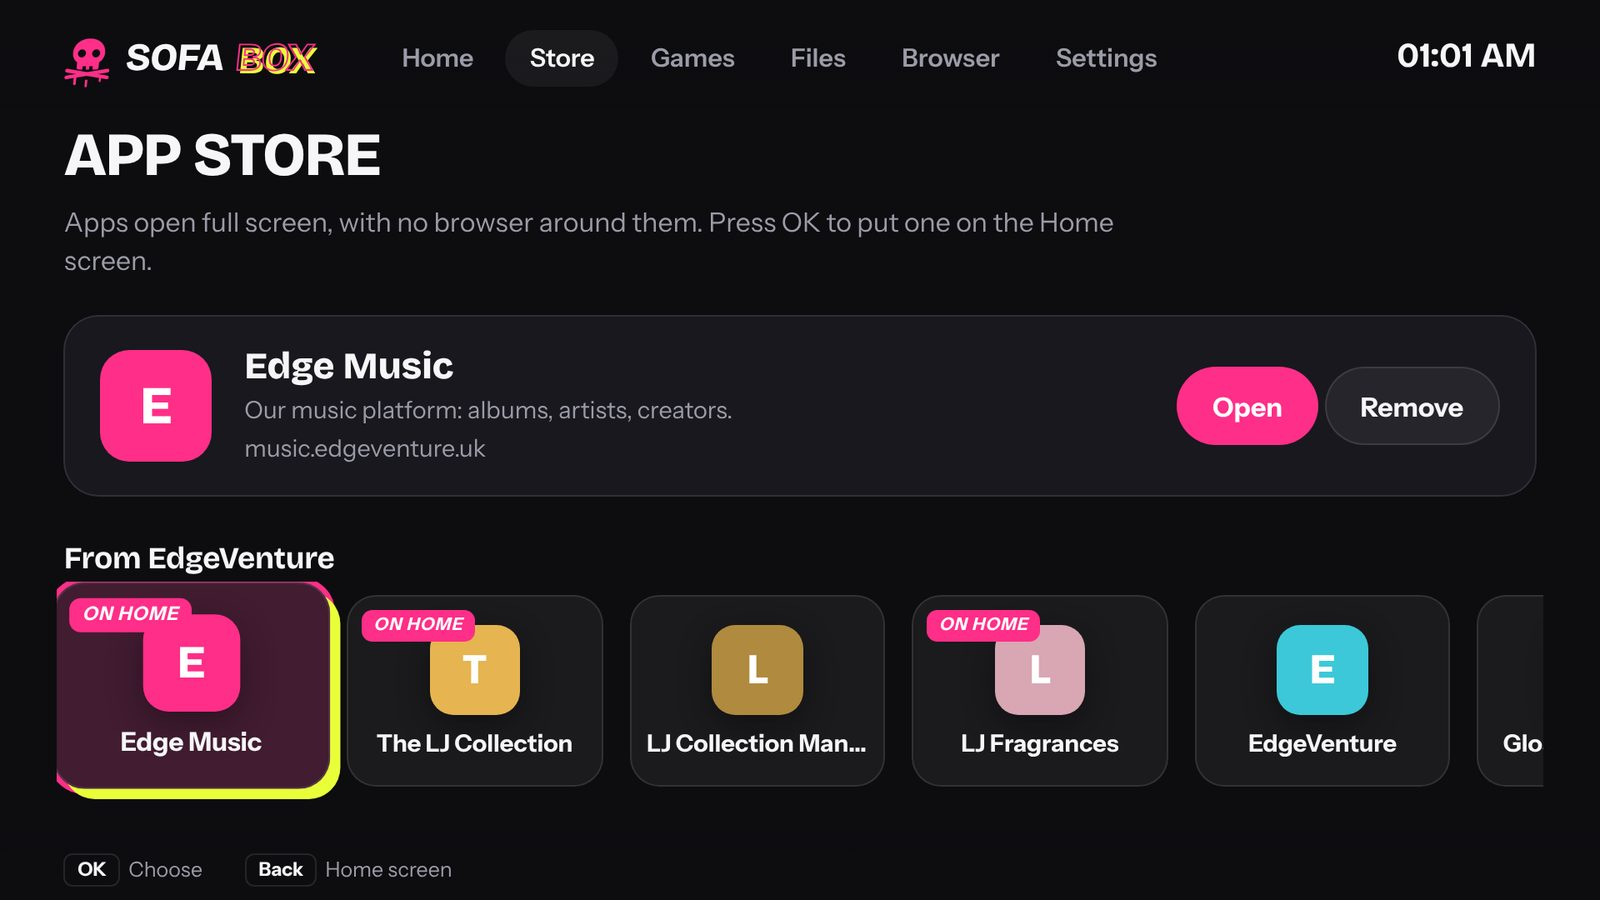
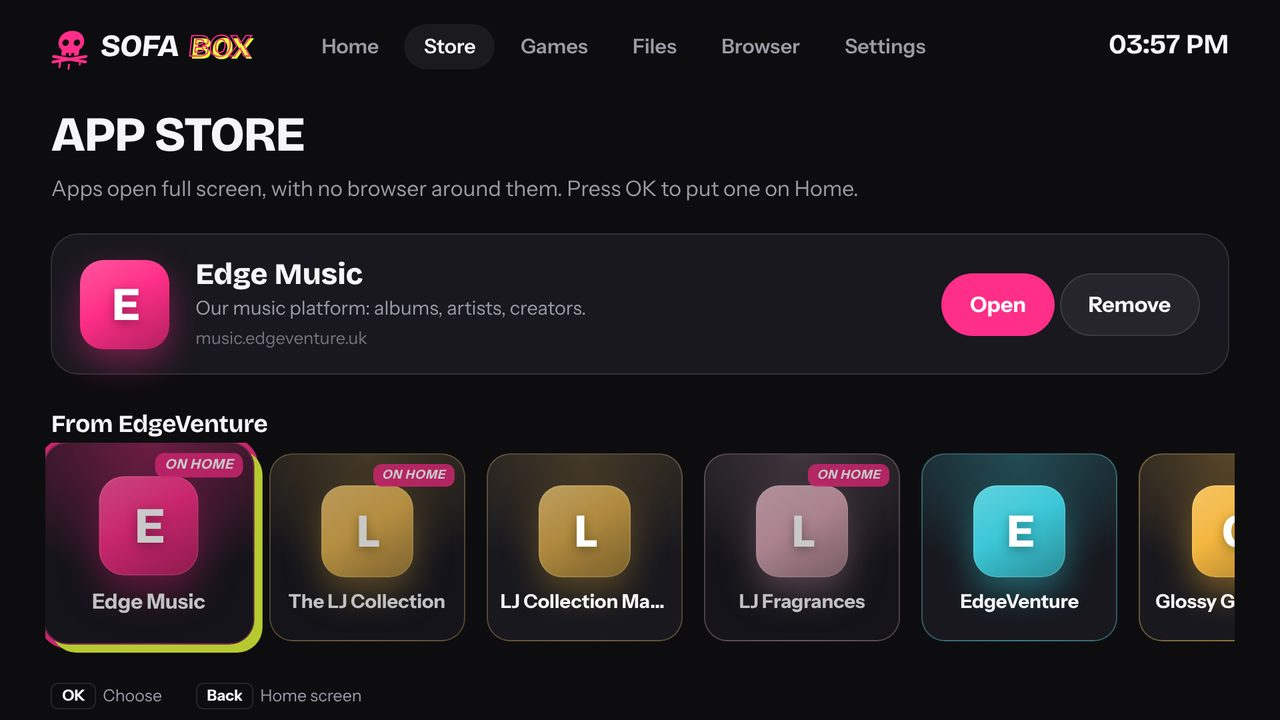
Docs: public libraries, servers, Restart; the box guide (where Sofa plays from, This box, USB and discs, install from GitHub); plan and handoff; new pictures

diff --git a/deploy/sofa-box/README.md b/deploy/sofa-box/README.md
@@ -1,16 +1,20 @@
 # The Sofa Box (a Raspberry Pi on the TV)
 
 Your own TV box, in place of a Fire TV: a Raspberry Pi on the TV that starts on its own home screen,
-with Sofa, your apps, a browser, an app store, games and a file manager. No ads, no account, and
-nothing watching what you watch; the TV itself never needs to be online.
+with Sofa, free Live TV, your streaming apps, a browser, an app store, games and a file manager. No
+ads, no account, and nothing watching what you watch; the TV itself never needs to be online.
 
-<img src="../../docs/images/box-home.jpg" alt="The Sofa Box home screen: Sign in to Sofa, and a row of apps: Sofa, Browser, App Store, Games, Files" width="100%">
+<img src="../../docs/images/box-home.jpg" alt="The Sofa Box home screen: Open Sofa and Live TV, your apps, and a Watch row with Sofa, Live TV, Netflix and YouTube" width="100%">
 
-- **Sofa** plays with the box's own player (mpv, on the Pi's video chip), so most files play as they
-  are and Sofa only converts what the Pi can't play. Home shows what you were watching.
-- **Apps:** our own (Edge Music, The LJ Collection, LJ Fragrances) and anything from the **App
-  Store** (YouTube, Pandora, SomaFM, Twitch, Pluto TV…) open full screen, with no browser around
-  them. **Home** brings you back; they keep playing.
+- **Sofa from anywhere:** a Sofa computer at home, a Sofa on the internet (a share link someone sent
+  you), **Sofa on the box itself** (no other computer needed), or your Jellyfin, Emby or Plex server.
+  It plays with the box's own player (mpv, on the Pi's video chip), so most files play as they are.
+- **Free Live TV** has its own tile, and works with no server at all.
+- **Streaming apps** (Netflix, YouTube, Prime Video, Disney+, Max, Hulu…), our own (Edge Music,
+  The LJ Collection, LJ Fragrances) and anything else from the **App Store** open full screen, with
+  no browser around them. **Home** brings you back; they keep playing.
+- **USB drives and DVDs:** plug in a drive and its videos, music and pictures are in Files; put a
+  DVD or music CD in a USB disc drive and play it from Home.
 - **Browser**, with **Sofa Shield** keeping ads and trackers out of the whole box. On any site, the
   **Sofa bar** (Menu key, or the mouse at the top edge) has **Add to Home**: the site becomes an app.
 - **Games** that run well on the box, **Files** for downloads and USB drives, and **themes**: Street,
@@ -35,30 +39,42 @@ nothing watching what you watch; the TV itself never needs to be online.
 
 ## Setting it up: the ready-made card (easiest)
 
-1. Download the newest **`sofa-box-….img.xz`** from the
-   [releases page](https://github.com/krintoxi/sofa/releases) (the one called "Sofa box").
+1. Download **`sofa-box.img.xz`** from the
+   [Sofa Box release](https://github.com/krintoxi/sofa/releases/tag/sofa-box) (it's always the newest
+   card: GitHub makes it every time the box changes).
 2. Install **Raspberry Pi Imager** (raspberrypi.com/software) on your computer and open it.
    Choose your Pi, then **Choose OS → Use custom** and pick the file, then your card.
 3. When it asks about **OS customisation**, you can press **Edit settings** to add your Wi-Fi, and
    a user name and password with SSH under Services (only needed to look inside the box later). Or
    press **No**: a network cable needs nothing.
 4. Write it, put the card in the Pi, plug in HDMI (and the network cable), then power.
-5. The TV shows the Sofa Box boot screen, then the first-start steps: the internet, finding Sofa,
-   and your look. The first start takes a few minutes.
-6. **Sign in to Sofa:** open Sofa from the home screen; it shows a code and a QR code. On your phone,
-   open Sofa, press your picture, then **Pair a TV**, and type the code (or scan the QR).
+5. The TV shows the Sofa Box boot screen, then four short first-start steps: hello, the internet,
+   your look, and **your apps** (tick the streaming apps you use: they go on Home). The first start
+   takes a few minutes.
 
-From then on the box starts on its home screen whenever it's switched on. If the Sofa computer is off,
-it waits for it. If there's more than one Sofa at home, it asks once.
+   <img src="../../docs/images/box-welcome.jpg" alt="First start: What do you watch? Netflix, YouTube, Prime Video, Disney+, Max, Hulu and more, to tick" width="80%">
+6. **Open Sofa** from Home. The first time it asks where from (see below); after that it opens
+   straight away, or asks each time if you prefer.
+7. **Sign in:** a Sofa computer shows a code and a QR code. On your phone, open Sofa, press your
+   picture, then **Pair a TV**, and type the code (or scan the QR). Sofa on the box signs itself in.
+
+From then on the box starts on its home screen whenever it's switched on.
 
 ## Setting it up on the card you already have
 
 The installer works on Raspberry Pi OS (Lite or with a desktop) and on other Debian or Ubuntu
-systems. From the Pi's own keyboard and screen, or over SSH (`ssh you@raspberrypi.local`), run one line with your Sofa
-computer's address (Sofa's **Server → Overview → Apps** shows it ready to copy):
+systems. From the Pi's own keyboard and screen, or over SSH (`ssh you@raspberrypi.local`), run:
 
 ```
-curl -fsSL http://192.168.1.20:8090/sofa-box/install.sh | sudo sh -s http://192.168.1.20:8090
+curl -fsSL https://raw.githubusercontent.com/krintoxi/sofa/main/deploy/sofa-box/install.sh | sudo sh
+```
+
+It gets everything from GitHub, so no Sofa computer is needed. To start with your Sofa computer
+already on the box's list, add its address at the end (Sofa's **Server → Overview → Apps** shows the
+whole line ready to copy):
+
+```
+curl -fsSL https://raw.githubusercontent.com/krintoxi/sofa/main/deploy/sofa-box/install.sh | sudo sh -s http://192.168.1.20:8090
 ```
 
 It takes about 10 minutes on a Pi 3, then Sofa appears on the TV. Restart once when it says so.
@@ -96,17 +112,57 @@ Everything starts here. **Home** comes back to it from anywhere: the remote's Ho
 remotes it's the Home or Menu button, sent over HDMI), a controller's Xbox/PS button, **F1** or the
 Windows key on a keyboard, or **Home** on the Sofa bar.
 
-- **Apps:** OK opens one. **Menu** on an app moves it, hides it or removes it.
+- **The spotlight** at the top: what you were watching in Sofa (Resume), or Open Sofa and Live TV
+  with your streaming apps.
+- **Watch:** Sofa, Live TV and your streaming apps, as big cards. **Plugged in:** USB drives and a disc,
+  when there's one. **Continue watching** from the Sofa it opens with.
+- **Your apps:** everything else. OK opens one. **Menu** on an app moves it, hides it or removes it.
 - **Open now:** what's still open (music keeps playing); OK goes back to it, ✕ closes it.
 - **Typing** anything on Home searches the web.
 
+### Opening Sofa: where from
+
+<img src="../../docs/images/box-chooser.jpg" alt="Where's your Sofa? Four cards: Sofa at home, Sofa on the internet, This box, Other servers" width="100%">
+
+The first time you open Sofa, the box asks **where's your Sofa?**
+
+- **Sofa at home:** the Sofa computers the box found on your network, or type an address.
+- **Sofa on the internet:** paste a **share link** someone sent you (their public library), or your
+  own Sofa's address when it's on the internet. Free public Sofas are listed here too when there are
+  any (the list comes from GitHub, so new ones show up by themselves).
+- **This box:** no server, and you don't want one? Sofa runs on the box itself. It has **free Live
+  TV** straight away, and plays videos on the box (in Videos → Sofa Library) and on USB drives laid
+  out as a Sofa Library. It signs itself in.
+- **Other servers:** Jellyfin, Emby or Plex. The box finds them on your network, or type the address.
+  They open as they are, with the Sofa bar.
+
+Then: **every time**, or **ask me each time**. Settings → Sofa changes that, and lists every server
+you've added (open one, make it the one Sofa opens with, or remove it). Inside Sofa, your name →
+**Servers** switches too. You stay signed in to each one.
+
+The **Live TV** tile opens Live TV in the Sofa it opens with, or in Sofa on the box.
+
+### USB drives and discs
+
+Plug in a USB drive and it's ready in a moment: a toast says so, it shows on Home under **Plugged
+in**, and Files lists it. Videos and music play in the box's player; pictures open full screen.
+
+A **DVD, Blu-ray or music CD** in a USB disc drive shows on Home too: OK plays it (DVD menus work with
+the arrows and OK). Store-bought DVDs and Blu-rays are usually copy-protected; the box doesn't come
+with the extra software some of them need, so those may not play. A Pi 3 may need a powered USB hub
+for a disc drive.
+
 ### The App Store
 
-<img src="../../docs/images/box-store.jpg" alt="The App Store: Edge Music, The LJ Collection, YouTube and more" width="70%">
+<img src="../../docs/images/box-store.jpg" alt="The App Store: Edge Music, The LJ Collection, and the streaming apps" width="70%">
 
-Pick an app and press OK: it's on Home, and it opens full screen with no browser around it.
-**Any website** at the bottom puts any address on Home. Apps marked **DRM** (Netflix, Disney+,
-Prime Video, Spotify) need protection the Pi 3 may not manage: they might not play.
+Pick an app and press OK: it's on Home, and it opens full screen with no browser around it. Sign in
+the first time, as on any TV. **Any website** at the bottom puts any address on Home. Each app shows
+its own icon (the box fetches it from the app's site the first time you open the store).
+
+Apps marked **DRM** (Netflix, Disney+, Prime Video, Max, Spotify…) use copy protection, which the box
+has (Widevine). On a Pi 3 their picture may be smaller than on a Fire TV, and a service can refuse
+to play in the box's browser; a Pi 4 or 5 does better.
 
 ### The browser and the Sofa bar
 

diff --git a/docs/sofa-anywhere.md b/docs/sofa-anywhere.md
@@ -78,20 +78,20 @@ The plan for the round that started 2026-11-02. Each part has a status: ☐ not 
      **Share** switch for admins.
    - The app for Visitors: only the library and Live TV, a "Shared by <name>" badge, a Sign-in button,
      and your place kept on that device only.
-4. ☐ **Servers in the app.**
+4. ☑ **Servers in the app.**
    - Menu → **Servers**: this one, plus the ones you've added (pasting an address or a share link).
      Picking one opens it. On the box, this list is the box's own, and switching keeps you signed in.
-5. ☐ **Box: opening Sofa.**
+5. ☑ **Box: opening Sofa.**
    - The chooser offers: Sofa at home (found + type an address), Sofa on the internet (paste a link,
      plus the free servers from `deploy/sofa-box/servers.json`), This box, and Other servers.
    - Then "Remember this, or ask every time?", with "You can change this in Settings → Sofa".
    - Settings → Sofa: the list, the default, remove, add.
    - Agent API: `/box/api/sofa`, `/box/api/sofa/add|remove|default|open|scan`.
-6. ☐ **Box: no server needed.**
+6. ☑ **Box: no server needed.**
    - "This box" (local Sofa, started on demand) and a **Live TV** tile.
    - USB drives are mounted by udisks2 (a udev rule), with a toast and an **USB** tile.
    - The **Disc** tile; `libdvdnav`/`libbluray`/`libcdio` support is in mpv already.
-7. ☐ **Box: store, icons, Home, first setup.**
+7. ☑ **Box: store, icons, Home, first setup.**
    - About 40 popular apps in the store.
    - Icons:
      - each app tile has its own color and a large, sharp icon (the site's biggest manifest or
@@ -105,18 +105,47 @@ The plan for the round that started 2026-11-02. Each part has a status: ☐ not 
 8. ☑ **Sound on by default** for hover previews, the banner and the top slider. They start with sound;
    if the browser won't allow it, they play muted with a sound button. The box's Chromium is started
    with `--autoplay-policy=no-user-gesture-required`.
-9. ☐ **GitHub:** install from raw.githubusercontent.com; the workflow publishes the card release.
+9. ☑ **GitHub:** install from raw.githubusercontent.com; the workflow publishes the card release.
    - Docs:
      - this plan;
      - the box guide (servers, no server, USB/DVD, install command);
      - the README (Sharing, Restart).
    - Tests for sharing, the box's servers and the mpv options.
 
-## Where it stands
+## How it looks
 
-- Done (2026-11-02):
-  - parts 1, 2, 3 and 8;
-  - `tests/test_server.py` `Sharing` covers visitors from home and from the internet;
-  - checked in a browser: the Sharing tab, the Share button, the visitor's Home on a computer and a
-    phone.
-- Next: parts 4–7, then 9.
+<img src="images/sharing.jpg" alt="Server → Sharing: the public library switched on, its QR code and share link" width="100%">
+
+<img src="images/visitor.jpg" alt="A visitor's Sofa: only the shared titles, Public and the library's name at the top, Sign in" width="100%">
+
+<img src="images/box-chooser.jpg" alt="The Sofa Box asks where's your Sofa: at home, on the internet, this box, or other servers" width="100%">
+
+## Where it stands (2026-11-02)
+
+- **Everything in the plan is built**, and the tests pass (68).
+  - `tests/test_server.py` `Sharing`: visitors at home and from the internet.
+  - `tests/test_sofa_box.py` `Agent`:
+    - each server at its own address;
+    - the box's controls refused to other pages and other names;
+    - a share link through the box;
+    - mpv that can't start handing the video back to the page.
+- **Checked in a browser:**
+  - Server → Sharing, the Share button, and a visitor's Home on a computer and a phone;
+  - the box's Home, the chooser, the store, Settings → Sofa and the first start's apps step;
+  - This box: it starts, makes its own account and signs in.
+- **Not yet tried on real hardware:**
+  - the Pi 3 B+;
+  - USB drives mounting through udisks;
+  - a USB DVD drive;
+  - Jellyfin/Emby/Plex discovery on a real network;
+  - store icons (the cloud session couldn't reach those sites; on the box it can).
+- **For the owner:**
+  - Put a free public Sofa in `deploy/sofa-box/servers.json` (name, url, about) when there is one;
+    every box picks it up from GitHub within a day.
+  - The first build on `main` publishes the release `sofa-box`.
+
+## Ideas for later
+
+- A way to send a link to the box from a phone (for people with only a TV remote).
+- A list of the open tabs inside the browser.
+- A public Sofa's visitors could keep their place across devices (today it stays on each device).

diff --git a/README.md b/README.md
@@ -129,6 +129,21 @@ own settings and history are in `~/Sofa/data`.
 Internet** walks you through it, and Sofa gets and renews the certificate itself.
 [docs/remote-access.md](docs/remote-access.md)
 
+**Can I share some of it with friends, or with everyone?** Yes: **Server → Sharing** makes a **public
+library**. Pick titles with **Share** on their page (or share everything except Adult), and send the
+**share link**. Whoever opens it sees a copy of Sofa with only those titles, can only watch, and
+never sees the rest. Signing in still works only at home (unless you've set up your own address with
+HTTPS). For a server that's only there to share, **Open to everyone** makes its plain address show
+the public library. [docs/sofa-anywhere.md](docs/sofa-anywhere.md)
+
+**I watch from more than one Sofa.** Press your name, then **Servers**: paste another Sofa's address
+or a share link, and switch between them. A Sofa Box keeps a list of its own and stays signed in to
+each one.
+
+**The Server page is stuck.** It doesn't wait on a slow answer any more (it keeps showing the last
+one and says so). If Sofa itself seems stuck, **Restart Sofa** at the top of the Server page starts
+it again in a few seconds.
+
 **Can family and friends make their own accounts?** Yes: **Server → People → Let people ask for an
 account**. The sign-in page gets **Create an account**; they pick a name and password, and you let
 each one in (or not) under **Server → People**. Home tells you when someone's waiting.
@@ -183,11 +198,11 @@ deleted. More: [docs/folder-structure.md](docs/folder-structure.md).
   each device as they play, and Sofa also **converts them to MP4 in the background** so they
   play instantly next time. The originals are kept until you say otherwise.
   [docs/playback.md](docs/playback.md)
-- **Hover previews.** Point at anything and a bigger card plays a few seconds of it, with Play
-  and More info. On a TV, the card you're on plays in place.
+- **Hover previews.** Point at anything and a bigger card plays a few seconds of it, with sound,
+  Play and More info. On a TV, the card you're on plays in place.
 - **Trailers.** Open a show or movie (More info) and, after a moment, three minutes of it from
-  somewhere in the middle play behind the title. Sound off until you turn it on; off per device
-  under Theme.
+  somewhere in the middle play behind the title, with sound (the speaker button turns it off, for
+  previews and the banner too). Off per device under Theme.
 - **A proper player.** Skip Intro / Skip Recap / Skip Credits, "Next episode" when the
   credits start, previews while you scrub, an episode list, sound-track and subtitle
   choice, **Night mode** (loud scenes quieter, voices clearer), picture quality for converted
@@ -305,13 +320,14 @@ link you trust and tick **Adult channels**. [docs/adult.md](docs/adult.md)
 
 | Tab | What's there |
 |---|---|
-| Overview | addresses to watch from, who's watching, the Inbox, anything that needs you, this computer (speed, Gentle mode, quiet hours) |
+| Overview | addresses to watch from, who's watching, the Inbox, anything that needs you, this computer (speed, Gentle mode, quiet hours), **Restart Sofa** |
 | Storage | where the library is (this computer and drives), where new things go, drives to add, moves between drives |
 | Library | folders, rescan, **missing details** (fix them in a click), **duplicates** (keep the best copy), new pictures, free up space, the Deleted folder, Skip Intro progress, Needs Review |
 | Converting | the convert-to-MP4 queue with progress; automatic converting on/off |
 | Downloads | save videos from links; install yt-dlp; use a browser's sign-in; the "Send to Sofa" bookmark |
 | Live TV | channel lists |
 | People | accounts, Adult access, Kids profiles, guests |
+| Sharing | the **public library**: on/off, the share link (copy, QR code, make a new one), what visitors see it called, share everything, Live TV too, open to everyone, the shared titles |
 | Settings | **privacy** (keep no logs, wipe all logs, work offline), name, theme, TV sharing, TMDB key, ThePornDB token, backups |
 | Updates | version, **Update now** |
 | Activity | everything Sofa did, filterable |

diff --git a/docs/HANDOFF.md b/docs/HANDOFF.md
@@ -1,7 +1,7 @@
 # Handoff
 
 For whoever picks this up next (a person, or a new Claude conversation). Read this first, then the
-plan you're continuing. Updated 2026-11-02.
+plan you're continuing. Updated 2026-11-02 (Sofa anywhere).
 
 ## Where things are
 
@@ -37,11 +37,18 @@ Comet Courier's address, a `box-v1` release (the owner publishes it on the websi
 
 ## What's in progress
 
-- **Sofa anywhere** (started 2026-11-02): public libraries with a share link, adding and switching
-  servers (Sofa, Jellyfin, Emby, Plex), a box that works with no server (Sofa on the box, Live TV,
-  USB, DVD), the box's store/icons/Home/first setup, Server page fixes and a Restart button, preview
-  sound, the card on GitHub Releases, and the phone → box mpv error. The plan and the status of each
-  part: [sofa-anywhere.md](sofa-anywhere.md).
+- **Sofa anywhere** (2026-11-02, built; waiting for the owner's OK to merge and for a try on the Pi):
+  - public libraries with a share link (`sofa/sharing.py`, Server → Sharing);
+  - adding and switching servers: Sofa, Jellyfin, Emby, Plex (`deploy/sofa-box/boxservers.py`, and the
+    app's Servers menu);
+  - a box that works with no server: Sofa on the box, Live TV, USB drives, DVD;
+  - the box's store, icons, Home and first setup;
+  - Server page fixes (`sofa/slow.py`) and a Restart button;
+  - sound on previews;
+  - the card on GitHub Releases (`sofa-box`), and the install command from GitHub;
+  - the phone → box mpv error (`--profile=fast` on Bookworm's mpv).
+
+  The plan, the status of each part and what's left: [sofa-anywhere.md](sofa-anywhere.md).
 
 - **Sofa Box OS** (home screen, apps, store, browser, ad blocking, files, games, themes):
   [sofa-box-os.md](sofa-box-os.md) has the plan, the status of each part and what's next ("Where it
@@ -60,7 +67,13 @@ Comet Courier's address, a `box-v1` release (the owner publishes it on the websi
 - A demo Sofa for screenshots: `SOFA_DATA=<folder> python3 sofa.py serve`; Playwright with the
   preinstalled Chromium drives the UI (scripts were kept in the session's scratchpad, not the repo).
 - The card: push to the branch (changes under `deploy/sofa-box/` or the builder) builds it on GitHub
-  and keeps it a week as an artifact; publishing a release tagged `box-v…` on the website attaches it.
+  and keeps it a week as an artifact. On `main`, the workflow also publishes it as the release
+  `sofa-box` (never marked "latest": the Fire TV app's release keeps that). Publishing a release
+  tagged `box-v…` on the website attaches a card to it too.
+- The box's pieces:
+  - `boxservers.py`: the server list, and what answers at an address;
+  - each Sofa at `http://<id>.localhost:8091`;
+  - `/box/api/*` answers only the home screen's own address, and POSTs need `X-Sofa-Box: 1`.
   Each build writes a report (versions, services, boot settings, space) to the run's summary page.
 
 ## Rules the owner set
